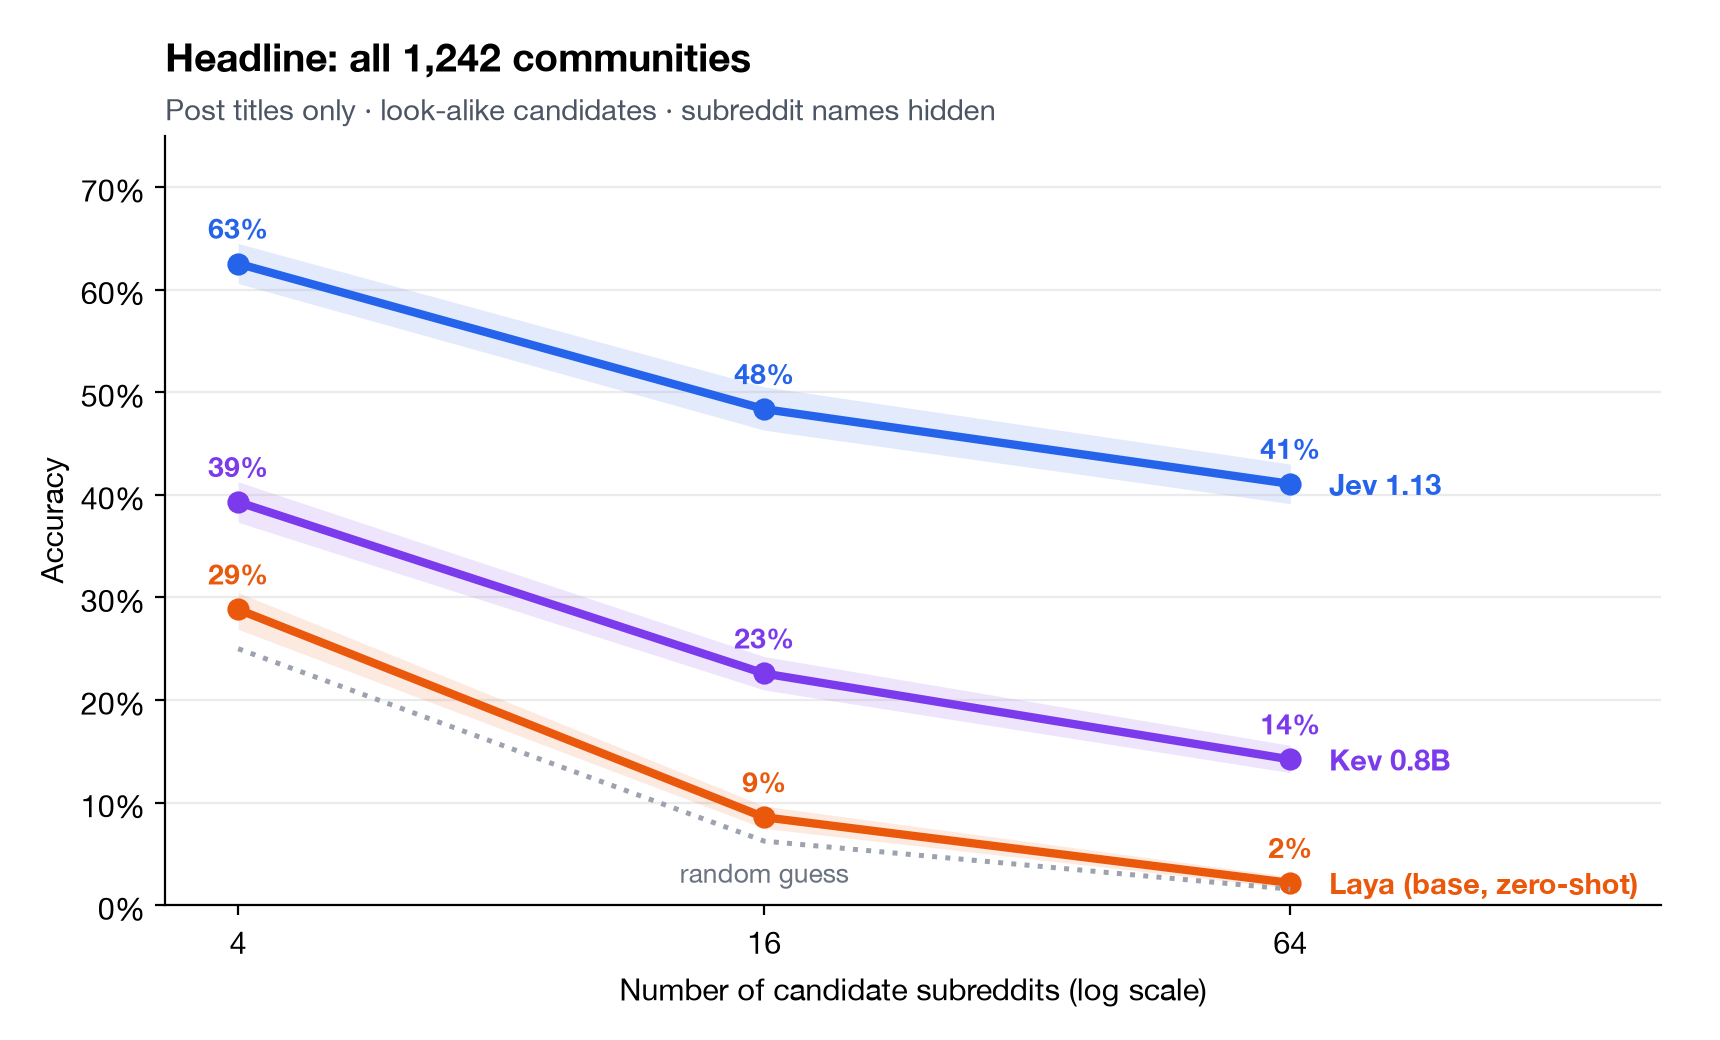
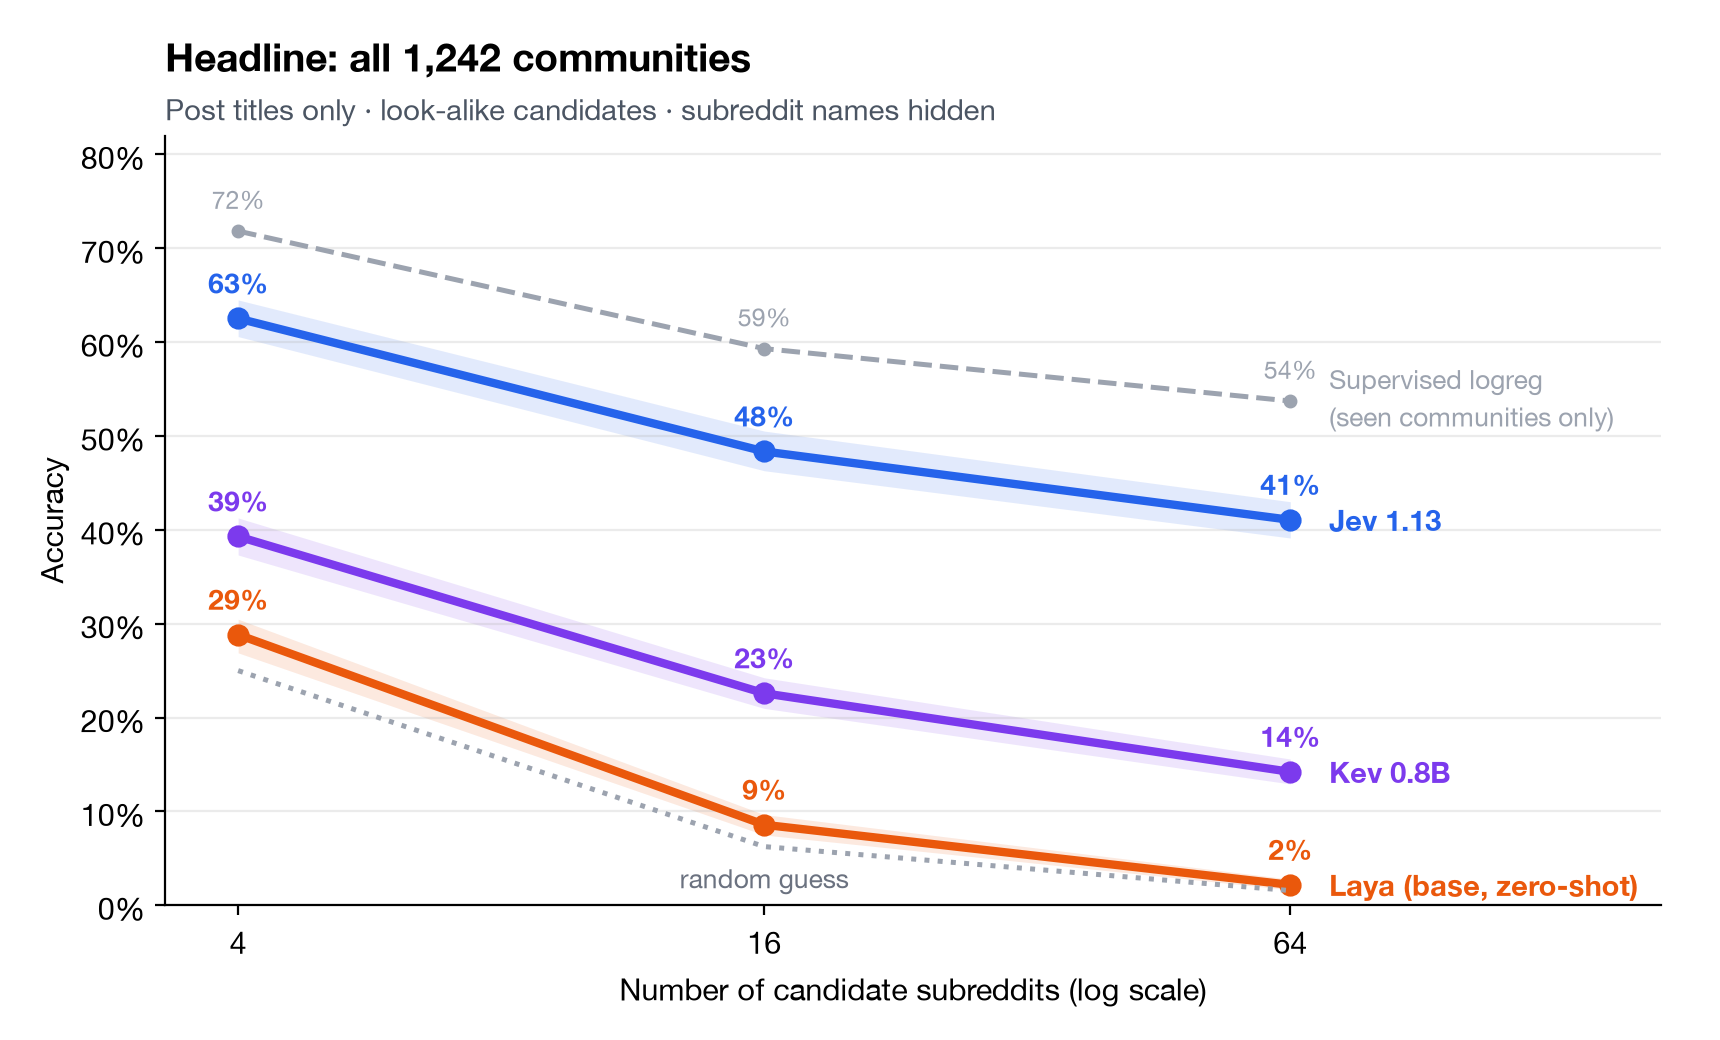
Add muted supervised logreg reference to all-communities chart

diff --git a/scripts/plot_results.py b/scripts/plot_results.py
@@ -35,8 +35,17 @@ def style(ax, title, subtitle):
 
 plt.rcParams.update({"font.family": "Helvetica Neue", "font.size": 11})
 
-# 1. Headline over all communities (no supervised baseline: unseen communities have no training posts).
+# 1. Headline over all communities. The supervised baseline only exists for seen communities
+#    (unseen ones have no training posts), so it is a muted reference, labelled as such.
 fig, ax = plt.subplots(figsize=(8.6, 5.2))
+logreg = {m["k"]: m["accuracy"] for m in json.load(open(R + "baselines/logreg-seen-medium.json"))["metrics"]
+          if m["difficulty"] == "hard"}
+ax.plot(KS, [logreg[k] for k in KS], color="#9ca3af", linestyle="--", linewidth=1.8, marker="o", markersize=4)
+for k in KS:
+    ax.annotate(f"{logreg[k]:.0%}", (k, logreg[k]), textcoords="offset points", xytext=(0, 8), ha="center",
+                color="#9ca3af", fontsize=9)
+ax.annotate("Supervised logreg\n(seen communities only)", (KS[-1], logreg[KS[-1]]), textcoords="offset points",
+            xytext=(14, 0), va="center", color="#9ca3af", fontsize=9.5, linespacing=1.2)
 for name, folder, color in MODELS:
     r = rows(folder, DESC)
     acc = [r[k]["accuracy"] for k in KS]
@@ -54,7 +63,7 @@ ax.annotate("random guess", (16, 1 / 16), textcoords="offset points", xytext=(0,
 ax.set_xscale("log", base=2)
 ax.set_xticks(KS, [str(k) for k in KS])
 ax.set_xlim(3.3, 170)
-ax.set_ylim(0, 0.75)
+ax.set_ylim(0, 0.82)
 ax.set_xlabel("Number of candidate subreddits (log scale)")
 ax.set_ylabel("Accuracy")
 style(ax, "Headline: all 1,242 communities", "Post titles only · look-alike candidates · subreddit names hidden")
